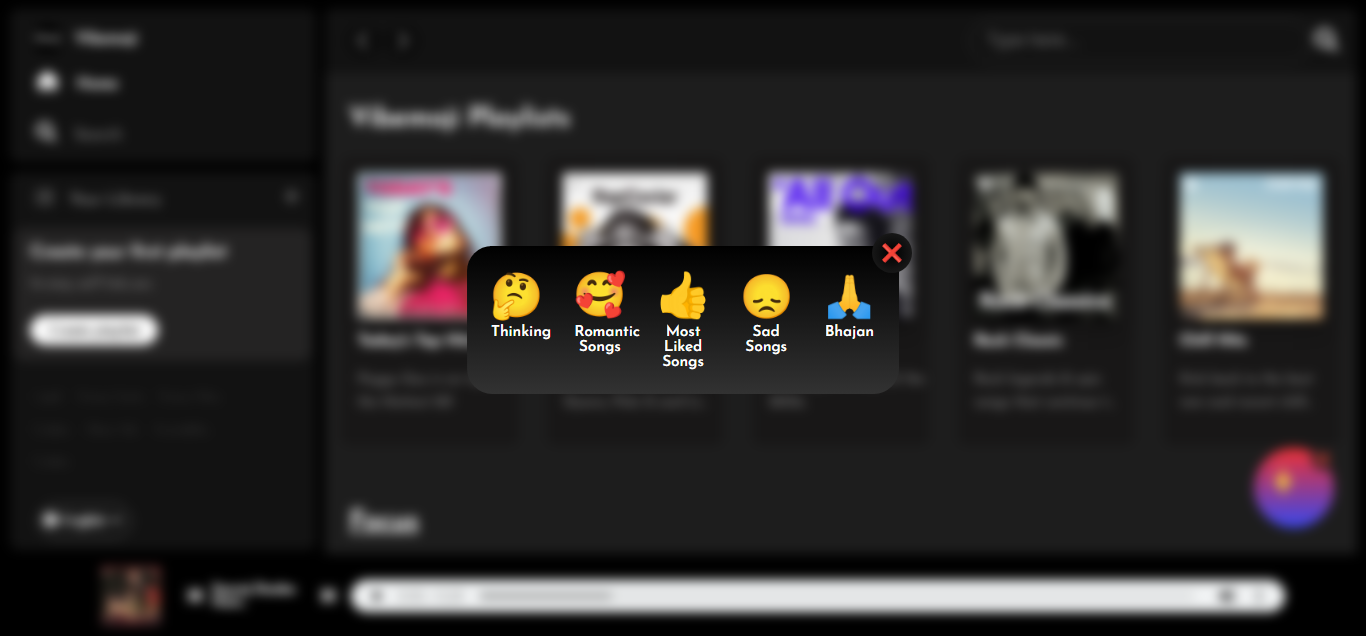
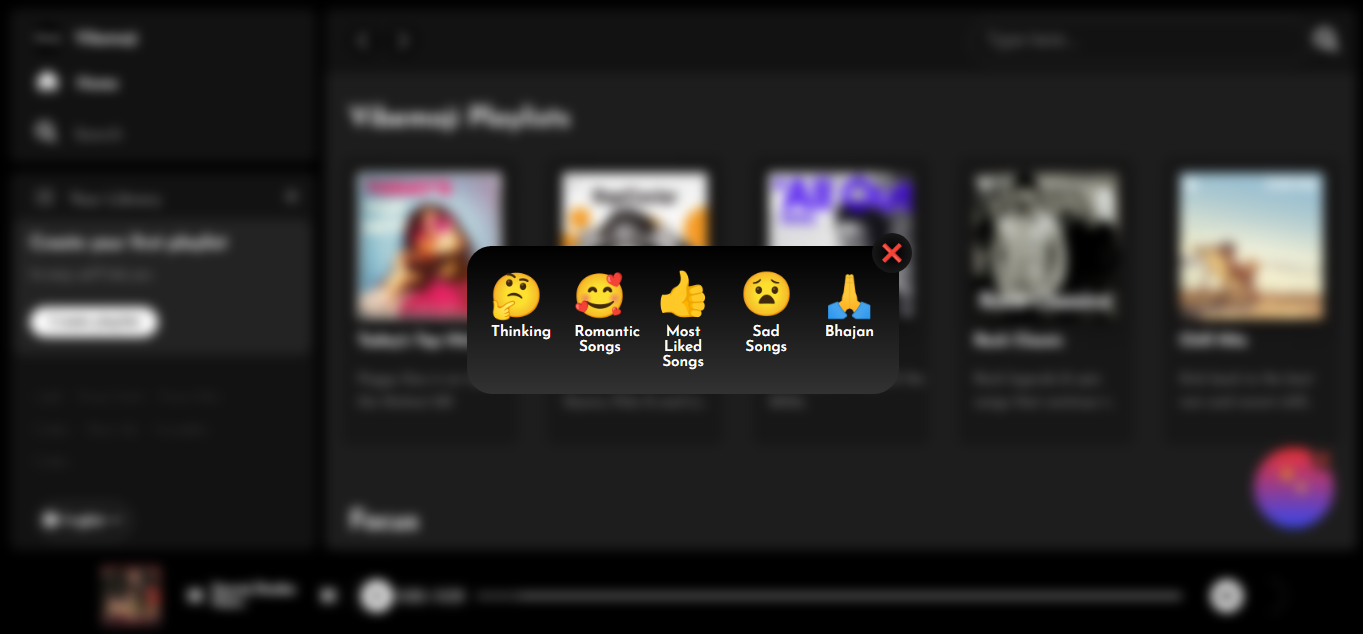
Added styling of footer

diff --git a/style.css b/style.css
@@ -28,7 +28,7 @@ body {
     }
 
     #main {
-        height: 87vh !important;
+        height: 84.8vh !important;
     }
 }
 
@@ -116,7 +116,7 @@ body {
     }
 
     #main {
-        height: 90.1vh !important;
+        height: 90.85vh !important;
     }
 
     /* .hid1 {
@@ -235,7 +235,9 @@ body {
         margin-right: 0.7rem !important;
         margin-bottom: 2rem !important;
     }
-
+    #sidebar {
+        display: unset !important;
+    }
     #play-icon {
         display: flex;
         flex-wrap: wrap;
@@ -262,7 +264,7 @@ body {
     #main {
         margin-top: 0 !important;
         margin-right: 0 !important;
-        height: 89vh !important;
+        height: 89.8vh !important;
     }
 }
 
@@ -273,7 +275,7 @@ body {
 
     #main {
         margin-top: 0 !important;
-        height: 87.7vh !important;
+        height: 88.8vh !important;
         margin-right: 0 !important;
     }
 
@@ -408,6 +410,7 @@ body {
         right: 1rem !important;
     }
     #main{
+        height: 87vh !important;
         margin-top: 0 !important;
         margin-right: 0 !important;
     }
@@ -657,6 +660,7 @@ a {
     font-weight: 795;
     margin-top: 0.6rem;
     border-radius: 25px;
+    cursor: pointer;
 }
 
 .but:hover {
@@ -1006,6 +1010,8 @@ article p {
 }
 
 #playlist {
+    flex: 1;
+    min-height: 6.5rem;
     padding: 1rem;
     display: flex;
     flex-direction: column;
@@ -1172,6 +1178,58 @@ article p {
     display: none;
 }
 
+audio{
+    padding: 0;
+    color: black;
+    background-color: black;
+    outline: none;
+}
+/* audio::-webkit-media-controls{
+} */
+audio::-webkit-media-controls-panel {
+    /* border-radius: 25px; */
+    border:0px solid rgb(0, 0, 0);
+    outline: none;
+    border-radius: 25px;
+    background-color: black;
+  }
+  audio::-webkit-media-controls-play-button {
+    outline: none;
+    background-color: rgb(236, 235, 235);
+    border-radius: 50%;
+  }
+  audio::-webkit-media-controls-play-button:hover {
+    background-color: white;
+  }
+  
+  audio::-webkit-media-controls-current-time-display ,audio::-webkit-media-controls-time-remaining-display {
+    color: #fff;
+    background-color: black;
+  }
+  audio::-webkit-media-controls-timeline-container{
+    overflow: none;
+    border: 0px solid black;
+    padding: 0;
+  }
+  audio::-webkit-media-controls-timeline {
+    background-color: grey;
+    padding: 0.0323rem;
+    border-radius: 25px;
+    margin-left: 0.8rem;
+    margin-right: 0.8rem;
+  }
+  
+  
+  audio::-webkit-media-controls-mute-button {
+    background-color: rgb(236, 235, 235);
+    border-radius: 50%;
+  }
+  audio::-webkit-media-controls-volume-slider {
+    background-color: rgb(185, 185, 185);
+    border-radius: 25px;
+    padding-left: 8px;
+    padding-right: 8px;
+  }
 .cursor {
     cursor: pointer;
 }

diff --git a/script.js b/script.js
@@ -352,7 +352,7 @@ playaudio.style.width = "70%";
 playaudio.style.height = "0.2rem";
 playaudio.style.height = "2rem";
 playaudio.style.outline = "none";
-// play.style.gap="1.7rem"
+play.style.gap="1.7rem"
 play.style.cssText = "padding:1rem ;";
 
 const audio = document.getElementsByTagName("audio");
@@ -433,7 +433,12 @@ next.addEventListener(
         if (searchBtnClicked) {
             currsong.value = 0;
             playNextSong(totalsong, currsongD);
-        } else {
+        }
+        else if (playliston) {
+            currsong.value = 0;
+            playNextSong(playlistsongPlayed, currsongP);
+        }
+         else {
             playNextSong(defaultsong, currsong);
         }
     },
@@ -511,15 +516,16 @@ const songPlay = (img, song, audio) => {
                 audio: playaudio.src,
             });
             a = prevPlayesSong.length - 1;
-            playimg.style.height = "3.8rem";
-            playimg.style.aspectRatio = "1:1";
+            // playimg.style.height = "3.8rem";
+            // playimg.style.aspectRatio = "1:1";
 
-            playaudio.style.width = "70%";
-            playaudio.style.height = "0.2rem";
-            playaudio.style.height = "2rem";
-            playaudio.style.outline = "none";
-            // play.style.gap="1.7rem"
-            play.style.cssText = "padding:1rem ;";
+            // // playaudio.style.width = "70%";
+            // // playaudio.style.height = "0.2rem";
+            // // playaudio.style.height = "2rem";
+            // // playaudio.style.outline = "none";
+            // playaudio.add.classList('playaudio');
+            // // play.style.gap="1.7rem"
+            // play.style.cssText = "padding:1rem ;";
             playaudio.play();
         } else {
             alert("Audio is not Available");

diff --git a/index.html b/index.html
@@ -58,10 +58,13 @@
                         <div class="plus hover1 cursor  closesideBar" id="plus"><i class="fa-solid fa-plus"></i></div>
                     </div>
                 </div>
+                <div style="
+                flex: 1;">
                 <div id="playlist" class="closesideBar">
                     <!-- <div id="plus1">Create your first playlist</div>
                     <div id="p2">Its easy, we'll help you</div>
                     <button id="but" class="cursor but">Create playlist</button> -->
+                </div>
                 </div>
                 <div style="margin-bottom: 0.5rem;">
                 <div class="privacy cursor closesideBar">Legal &nbsp; &nbsp; Privacy Center&nbsp; &nbsp; Privacy Policy</div>
@@ -155,6 +158,7 @@
                  <a href="https://open.spotify.com/" class="cursor" style="color: grey;">Inspired by Spotify</a>
 
                 </div>
+                <br>
             
         </div>
         <!-- https://is1-ssl.mzstatic.com/image/thumb/Music125/v4/f5/13/34/f51334f2-5e97-d82b-8fff-c935106d6450/mzm.joekxfas.jpg/100x100bb.jpg -->
